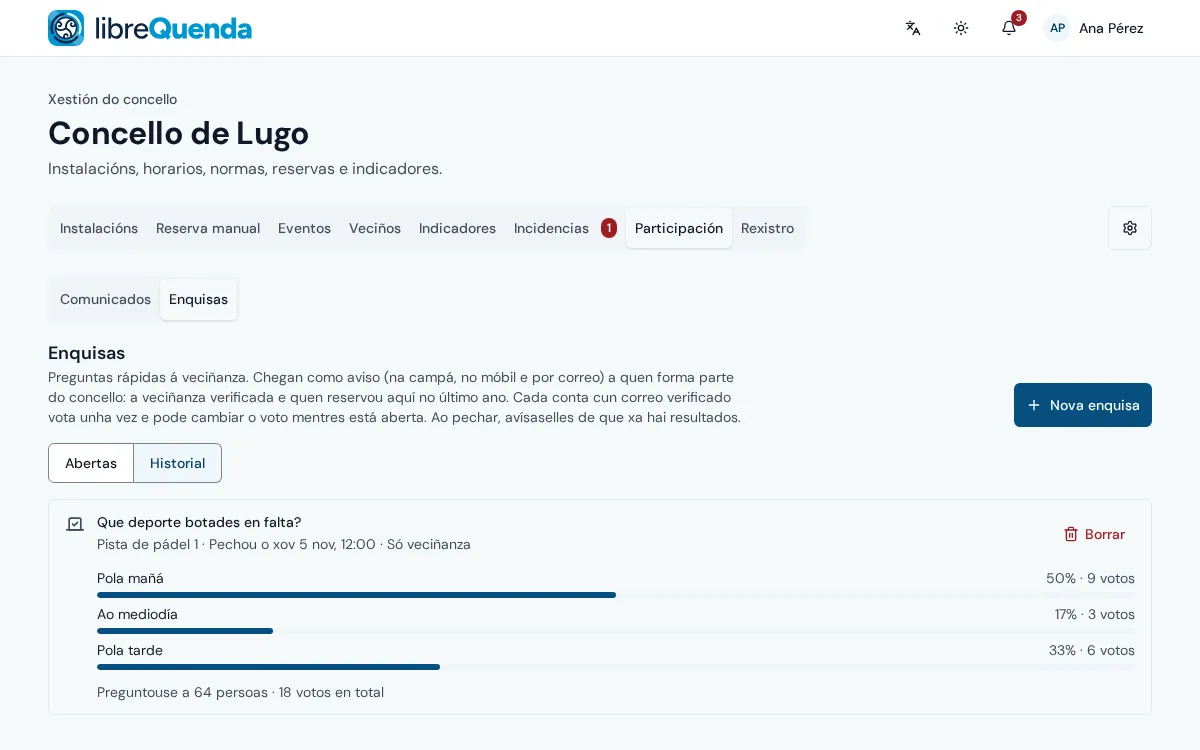
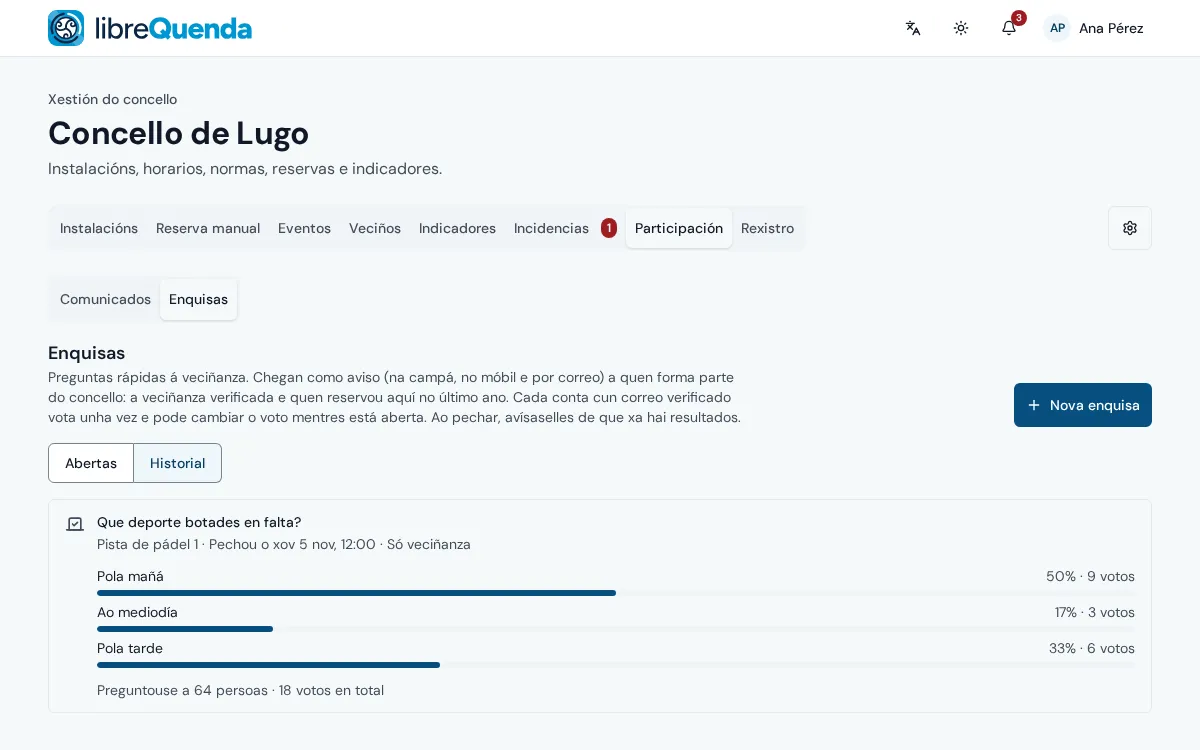
fix(participation): a closed poll stays, with its results; a simpler maintenance card
- Only an open poll can be deleted (409 errors.poll_closed_keep otherwise); the
  history shows no delete button.
- The maintenance list's card: what and where with its state on top, the
  resident's words, then the answer (the state as four buttons, the note at full
  width) and Save at the bottom right.

diff --git a/web/src/components/admin/IssuesPanel.tsx b/web/src/components/admin/IssuesPanel.tsx
@@ -9,6 +9,7 @@ import { Label } from '@/components/ui/label'
 import { Select, SelectContent, SelectItem, SelectTrigger, SelectValue } from '@/components/ui/select'
 import { Skeleton } from '@/components/ui/skeleton'
 import { Textarea } from '@/components/ui/textarea'
+import { ToggleGroup, ToggleGroupItem } from '@/components/ui/toggle-group'
 import { useAsync } from '@/hooks/useAsync'
 import { api, type AdminFacilitySummary, type CouncilIssue, type IssueStatus } from '@/lib/api'
 import { formatDateTime } from '@/lib/time'
@@ -135,26 +136,27 @@ function IssueItem({ slug, token, issue, onSaved }: { slug: string; token: strin
 
   const titleId = `issue-${issue.id}`
   return (
-    <li aria-labelledby={titleId} className="grid gap-3 rounded-md border p-4">
-      <div className="flex flex-wrap items-start justify-between gap-2">
-        <div className="flex min-w-0 w-full items-start gap-3 sm:w-auto sm:flex-1">
-          {issue.facility_image_url && (
-            <img src={issue.facility_image_url} alt="" className="h-16 w-20 shrink-0 rounded-md object-cover sm:h-20 sm:w-32" loading="lazy" />
-          )}
-          <div className="grid min-w-0 gap-1">
-            <h3 id={titleId} className="font-semibold">
-              {issue.facility_name} · {t(`facility:issue.categories.${issue.category}`)}
-            </h3>
-            <p className="num text-sm text-muted-foreground">
-              {t('admin:issues.reported', {
-                date: formatDateTime(issue.created_at, TIME_ZONE),
-                name: issue.reporter_name || t('admin:issues.someone'),
-              })}
-              {issue.booking_starts_at && ` · ${t('admin:issues.booking', { date: formatDateTime(issue.booking_starts_at, TIME_ZONE) })}`}
-            </p>
-          </div>
+    <li aria-labelledby={`${titleId} ${titleId}-where`} className="grid gap-4 rounded-md border p-4">
+      {/* what and where, and its state */}
+      <div className="grid grid-cols-[auto_minmax(0,1fr)_auto] items-start gap-3">
+        {issue.facility_image_url ? (
+          <img src={issue.facility_image_url} alt="" className="size-12 rounded-md object-cover" loading="lazy" />
+        ) : (
+          <span aria-hidden className="size-12 rounded-md bg-muted" />
+        )}
+        <div className="grid min-w-0 gap-0.5">
+          <h3 id={titleId} className="font-semibold break-words">
+            {t(`facility:issue.categories.${issue.category}`)}
+          </h3>
+          <p id={`${titleId}-where`} className="num text-sm text-muted-foreground">
+            {issue.facility_name} ·{' '}
+            {t('admin:issues.reported', {
+              date: formatDateTime(issue.created_at, TIME_ZONE),
+              name: issue.reporter_name || t('admin:issues.someone'),
+            })}
+          </p>
         </div>
-        <div className="flex flex-wrap gap-1.5">
+        <div className="flex flex-wrap justify-end gap-1.5">
           {issue.urgent && (
             <span className="inline-flex items-center gap-1 rounded-full bg-pill-negative-bg px-2 py-0.5 text-xs font-medium text-pill-negative-ink">
               <TriangleAlert className="size-3" aria-hidden />
@@ -164,47 +166,56 @@ function IssueItem({ slug, token, issue, onSaved }: { slug: string; token: strin
           <span className={`rounded-full px-2 py-0.5 text-xs font-medium ${statusPill[issue.status]}`}>{t(`admin:issues.statuses.${issue.status}`)}</span>
         </div>
       </div>
-      <p className="whitespace-pre-line">{issue.description}</p>
-      {issue.photo_url && (
-        <a href={issue.photo_url} target="_blank" rel="noopener noreferrer" className="w-fit">
-          <img src={issue.photo_url} alt={t('admin:issues.photo')} className="max-h-48 rounded-md object-contain" />
-        </a>
-      )}
-      {issue.reporter_email && (
-        <p className="flex items-center gap-1.5 text-sm">
-          <Mail className="size-4 text-muted-foreground" aria-hidden />
-          <a href={`mailto:${issue.reporter_email}`} className="underline underline-offset-4">
-            {issue.reporter_email}
-          </a>
-        </p>
-      )}
 
-      {issue.reporter_phone && (
-        <p className="flex items-center gap-1.5 text-sm">
-          <Phone className="size-4 text-muted-foreground" aria-hidden />
-          <a href={`tel:${issue.reporter_phone.replace(/\s/g, '')}`} className="underline underline-offset-4">
-            {issue.reporter_phone}
+      {/* what the resident wrote, their photo and, if they shared it, how to reach them */}
+      <div className="grid gap-2">
+        <p className="whitespace-pre-line">{issue.description}</p>
+        {issue.photo_url && (
+          <a href={issue.photo_url} target="_blank" rel="noopener noreferrer" className="w-fit">
+            <img src={issue.photo_url} alt={t('admin:issues.photo')} className="max-h-40 rounded-md object-contain" />
           </a>
-        </p>
-      )}
+        )}
+        {(issue.booking_starts_at || issue.reporter_email || issue.reporter_phone) && (
+          <p className="num flex flex-wrap items-center gap-x-4 gap-y-1 text-sm text-muted-foreground">
+            {issue.booking_starts_at && <span>{t('admin:issues.booking', { date: formatDateTime(issue.booking_starts_at, TIME_ZONE) })}</span>}
+            {issue.reporter_email && (
+              <a href={`mailto:${issue.reporter_email}`} className="inline-flex items-center gap-1.5 text-foreground underline underline-offset-4">
+                <Mail className="size-4 text-muted-foreground" aria-hidden />
+                {issue.reporter_email}
+              </a>
+            )}
+            {issue.reporter_phone && (
+              <a href={`tel:${issue.reporter_phone.replace(/\s/g, '')}`} className="inline-flex items-center gap-1.5 text-foreground underline underline-offset-4">
+                <Phone className="size-4 text-muted-foreground" aria-hidden />
+                {issue.reporter_phone}
+              </a>
+            )}
+          </p>
+        )}
+      </div>
 
-      <form onSubmit={(e) => void save(e)} className="grid gap-3 border-t pt-3 sm:grid-cols-[12rem_1fr_auto] sm:items-end">
-        <div className="grid min-w-0 max-w-full gap-1.5">
-          <Label htmlFor={`${titleId}-status`}>{t('admin:issues.status')}</Label>
-          <Select value={status} onValueChange={(value) => setStatus(value as IssueStatus)}>
-            <SelectTrigger id={`${titleId}-status`} className="w-full">
-              <SelectValue />
-            </SelectTrigger>
-            <SelectContent>
-              {STATUSES.map((s) => (
-                <SelectItem key={s} value={s}>
-                  {t(`admin:issues.statuses.${s}`)}
-                </SelectItem>
-              ))}
-            </SelectContent>
-          </Select>
+      {/* the answer: a state and a note for who reported it, saved together */}
+      <form onSubmit={(e) => void save(e)} className="grid gap-3 border-t pt-4">
+        <div className="grid gap-1.5">
+          <span id={`${titleId}-status`} className="text-sm leading-none font-medium">
+            {t('admin:issues.status')}
+          </span>
+          <ToggleGroup
+            type="single"
+            variant="outline"
+            value={status}
+            onValueChange={(value) => value && setStatus(value as IssueStatus)}
+            aria-labelledby={`${titleId}-status`}
+            className="w-full flex-wrap bg-card sm:w-fit"
+          >
+            {STATUSES.map((s) => (
+              <ToggleGroupItem key={s} value={s} className="h-10 flex-1 px-3 data-[state=on]:bg-accent data-[state=on]:text-accent-foreground sm:flex-none">
+                {t(`admin:issues.statuses.${s}`)}
+              </ToggleGroupItem>
+            ))}
+          </ToggleGroup>
         </div>
-        <div className="grid min-w-0 max-w-full gap-1.5">
+        <div className="grid gap-1.5">
           <Label htmlFor={`${titleId}-note`}>{t('admin:issues.note')}</Label>
           <Textarea
             id={`${titleId}-note`}
@@ -218,24 +229,24 @@ function IssueItem({ slug, token, issue, onSaved }: { slug: string; token: strin
             {t('admin:issues.noteHelp')}
           </p>
         </div>
-        <Button type="submit" disabled={busy || !dirty}>
-          {busy ? t('admin:issues.saving') : t('admin:issues.save')}
-        </Button>
+        <div aria-live="polite" className="empty:hidden">
+          {error && (
+            <Alert variant="destructive">
+              <AlertDescription>{error}</AlertDescription>
+            </Alert>
+          )}
+          {saved && !error && <p className="text-sm text-muted-foreground">{t('admin:issues.saved')}</p>}
+        </div>
+        <div className="flex flex-wrap items-center justify-between gap-3">
+          <Link to={`/${slug}/admin/facilities/${issue.facility_id}`} className="inline-flex items-center gap-1.5 text-sm text-primary underline-offset-4 hover:underline">
+            <CalendarX className="size-4" aria-hidden />
+            {t('admin:issues.close')}
+          </Link>
+          <Button type="submit" className="ml-auto" disabled={busy || !dirty}>
+            {busy ? t('admin:issues.saving') : t('admin:issues.save')}
+          </Button>
+        </div>
       </form>
-      <div aria-live="polite" className="empty:hidden">
-        {error && (
-          <Alert variant="destructive">
-            <AlertDescription>{error}</AlertDescription>
-          </Alert>
-        )}
-        {saved && !error && <p className="text-sm text-muted-foreground">{t('admin:issues.saved')}</p>}
-      </div>
-      <p>
-        <Link to={`/${slug}/admin/facilities/${issue.facility_id}`} className="inline-flex items-center gap-1.5 text-sm text-primary underline-offset-4 hover:underline">
-          <CalendarX className="size-4" aria-hidden />
-          {t('admin:issues.close')}
-        </Link>
-      </p>
     </li>
   )
 }

diff --git a/web/src/components/admin/ParticipationPanel.tsx b/web/src/components/admin/ParticipationPanel.tsx
@@ -240,17 +240,18 @@ function PollsSection({ slug, facilities, history, onHistory, onDone }: SectionP
                     </p>
                   </div>
                 </div>
-                <div className="flex flex-wrap justify-end gap-2">
-                  {poll.open && (
+                {/* only while open: a closed poll and its results stay in the history */}
+                {poll.open && (
+                  <div className="flex flex-wrap justify-end gap-2">
                     <Button variant="outline" size="sm" onClick={() => setClosing(poll)}>
                       {t('participation.polls.close')}
                     </Button>
-                  )}
-                  <Button variant="ghost" size="sm" className="text-destructive hover:text-destructive" onClick={() => setDeleting(poll)} aria-label={t('participation.polls.deleteLabel', { question: poll.question })}>
-                    <Trash2 />
-                    {t('participation.polls.delete')}
-                  </Button>
-                </div>
+                    <Button variant="ghost" size="sm" className="text-destructive hover:text-destructive" onClick={() => setDeleting(poll)} aria-label={t('participation.polls.deleteLabel', { question: poll.question })}>
+                      <Trash2 />
+                      {t('participation.polls.delete')}
+                    </Button>
+                  </div>
+                )}
               </div>
               <ul className="grid gap-1.5 sm:pl-8">
                 {poll.options.map((option) => {

diff --git a/web/e2e/a11y.spec.ts b/web/e2e/a11y.spec.ts
@@ -905,8 +905,7 @@ test.describe('keyboard', () => {
     await expect(page).toHaveURL(/vista=incidencias/)
     const item = page.getByRole('listitem', { name: /Pista de pádel 1/ })
     await expect(item.getByRole('link', { name: 'lucia@example.org' })).toBeVisible()
-    await item.getByLabel('Estado').click()
-    await page.getByRole('option', { name: 'Arranxado' }).click()
+    await item.getByRole('radio', { name: 'Arranxado' }).click()
     await item.getByLabel('Nota para quen avisou').fill('Rede nova colocada.')
     const saved = page.waitForRequest((r) => r.method() === 'PUT' && r.url().endsWith('/admin/issues/i1'))
     await item.getByRole('button', { name: 'Gardar' }).click()

diff --git a/api/core/counciladmin/participation.go b/api/core/counciladmin/participation.go
@@ -384,6 +384,7 @@ func (s *counciladminService) ClosePoll(ctx context.Context, tenantId, pollId uu
 	return nil
 }
 
+// DeletePoll: only an open poll (a mistake, say); a closed one stays with its results.
 func (s *counciladminService) DeletePoll(ctx context.Context, tenantId, pollId uuid.UUID) *shared.ErrorResponse {
 	var deleted int64
 	var err = db.WithTenant(ctx, s.db, tenantId, func(q *model.Queries) error {
@@ -395,7 +396,12 @@ func (s *counciladminService) DeletePoll(ctx context.Context, tenantId, pollId u
 		return failed("errors.participation_failed")
 	}
 	if deleted == 0 {
-		return &shared.ErrorResponse{Code: http.StatusNotFound, Message: "errors.poll_not_found"}
+		var _, getErr = model.New(s.db).GetCouncilPoll(ctx, model.GetCouncilPollParams{ID: pollId, TenantID: tenantId})
+		if errors.Is(getErr, sql.ErrNoRows) {
+			return &shared.ErrorResponse{Code: http.StatusNotFound, Message: "errors.poll_not_found"}
+		}
+		// closed: its results are the council's record, kept in the history
+		return &shared.ErrorResponse{Code: http.StatusConflict, Message: "errors.poll_closed_keep"}
 	}
 	audit.Target(ctx, "poll", pollId, "")
 	return nil

diff --git a/api/model/participation.sql.go b/api/model/participation.sql.go
@@ -228,6 +228,8 @@ DELETE FROM poll
 WHERE
     id = $1
     AND tenant_id = $2
+    AND closed_at IS NULL
+    AND closes_at > NOW()
 `
 
 type DeletePollParams struct {
@@ -235,6 +237,7 @@ type DeletePollParams struct {
 	TenantID uuid.UUID `json:"tenant_id"`
 }
 
+// Only while open: a closed poll and its results stay, in the history.
 // Row-level security: runs as the council (db.WithTenant).
 func (q *Queries) DeletePoll(ctx context.Context, arg DeletePollParams) (int64, error) {
 	result, err := q.db.ExecContext(ctx, deletePoll, arg.ID, arg.TenantID)

diff --git a/features.md b/features.md
@@ -77,7 +77,7 @@ Estado: **feito** · **en curso** (traballo aberto) · **idea** (sen comezar).
 | As non presentacións lembran cando estaba desactivado o rexistro de entrada (historial das formas de rexistrar a entrada da instalación) | feito |
 | Widget de quendas libres para incrustar na propia web do concello (`/<council>/widget`, todas as instalacións ou unha, claro ou escuro, en calquera dos catro idiomas), co código para pegar e unha vista previa nos axustes do concello | feito |
 | Lista de mantemento (lapela Incidencias): avisos da veciñanza cun distintivo para os novos, filtros por instalación e estado, estado e nota para quen avisou, o correo de quen avisou só se o compartiu | feito |
-| Participación (lapela Participación, en dúas partes, cada unha co actual e o seu historial): publicar e retirar comunicados, con ou sen aviso a quen reserva; crear enquisas de 2 a 6 respostas, pechalas antes de tempo e borralas, cos votos de cada resposta en todo momento | feito |
+| Participación (lapela Participación, en dúas partes, cada unha co actual e o seu historial): publicar e retirar comunicados, con ou sen aviso a quen reserva; crear enquisas de 2 a 6 respostas, pechalas antes de tempo e borralas mentres están abertas (as pechadas quedan no historial cos seus resultados), cos votos de cada resposta en todo momento | feito |
 | Páxina de axustes do concello: datos, persoas administradoras (invitar, retirar), ventá de reserva, servidor de correo propio (SMTP) con correo de proba, descarga completa dos datos (CSV + datapackage de Frictionless + imaxes, opcionalmente cos datos persoais da veciñanza) | feito |
 
 ## Plataforma

diff --git a/docs/wiki/concello.md b/docs/wiki/concello.md
@@ -126,7 +126,7 @@ A lapela **Participación** é a canle propia do concello coa veciñanza, en dú
 |:-:|:-:|:-:|
 | ![Comunicados](../screenshots/web/concello/participation/01-notices.webp) | ![Novo](../screenshots/web/concello/participation/02-new-notice.webp) | ![Historial](../screenshots/web/concello/participation/03-notices-history.webp) |
 
-**Enquisas.** Unha pregunta con 2 a 6 respostas, aberta ata o día que se escolla (como moito 90 días), opcionalmente só para a veciñanza verificada. Ao creala pregúntaselle á xente do concello, na campá e por correo; ao pechar (no seu día ou co botón «Pechar xa»), avísaselle de que xa hai resultados. A administración ve os votos de cada resposta en todo momento; a veciñanza, só ao pechar. Cada voto é anónimo: só se gardan as contas.
+**Enquisas.** Unha pregunta con 2 a 6 respostas, aberta ata o día que se escolla (como moito 90 días), opcionalmente só para a veciñanza verificada. Ao creala pregúntaselle á xente do concello, na campá e por correo; ao pechar (no seu día ou co botón «Pechar xa»), avísaselle de que xa hai resultados. A administración ve os votos de cada resposta en todo momento; a veciñanza, só ao pechar. Unha enquisa aberta pódese borrar (un erro ao creala, por exemplo); unha pechada non: queda no historial cos seus resultados. Cada voto é anónimo: só se gardan as contas.
 
 | Abertas | Nova enquisa | Historial |
 |:-:|:-:|:-:|
